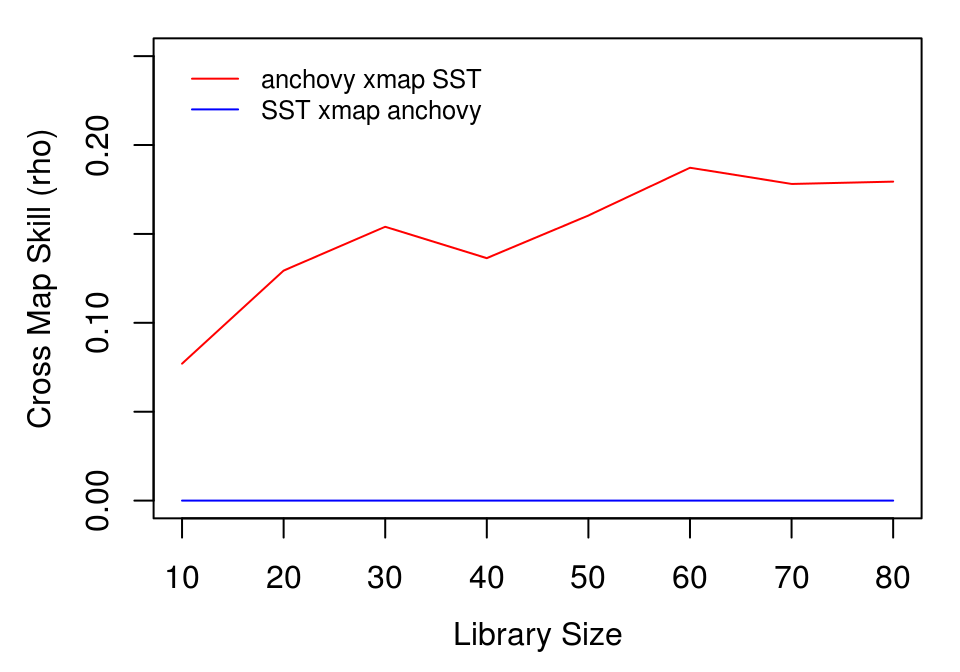
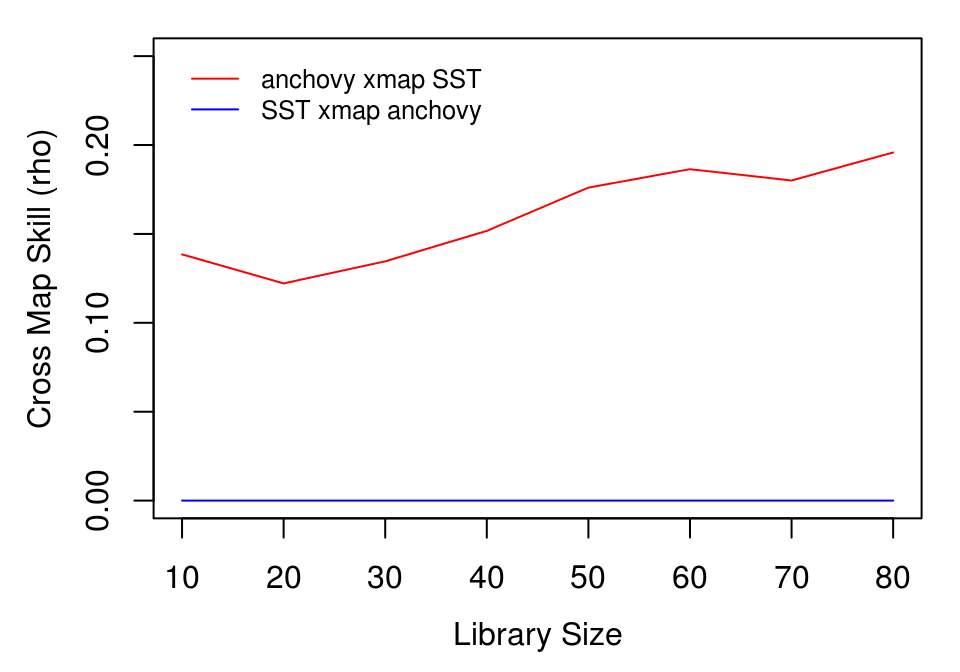
Deploy ha0ye/rEDM to github.com/ha0ye/rEDM.git:gh-pages

diff --git a/articles/rEDM.html b/articles/rEDM.html
@@ -89,7 +89,7 @@
                         <h4 class="author">Ethan Deyle</h4>
                         <h4 class="author">George Sugihara</h4>
             
-            <h4 class="date">2019-06-17</h4>
+            <h4 class="date">2019-07-22</h4>
       
       <small class="dont-index">Source: <a href="https://github.com/ha0ye/rEDM/blob/master/vignettes/rEDM.Rmd"><code>vignettes/rEDM.Rmd</code></a></small>
       <div class="hidden name"><code>rEDM.Rmd</code></div>
@@ -487,9 +487,9 @@
 ##  $ target_column: Factor w/ 1 level "np_sst": 1 1 1 1 1 1 1 1 1 1 ...
 ##  $ lib_size     : num  10 10 10 10 10 10 10 10 10 10 ...
 ##  $ num_pred     : num  76 76 76 76 76 76 76 76 76 76 ...
-##  $ rho          : num  0.0585 0.2334 0.2369 -0.0941 0.2689 ...
-##  $ mae          : num  1.083 0.939 0.926 0.999 0.904 ...
-##  $ rmse         : num  1.35 1.18 1.11 1.22 1.12 ...</code></pre>
+##  $ rho          : num  -0.0444 -0.1813 0.2816 0.1352 0.09 ...
+##  $ mae          : num  0.965 1.051 0.88 0.846 0.938 ...
+##  $ rmse         : num  1.23 1.3 1.1 1.08 1.18 ...</code></pre>
 <p>The output is a data.frame with statistics for each model run (in this case, 100 models at each of 8 library sizes). To interpret the results, we aggregate the cross map performance at each library size using the <code><a href="../reference/ccm_means.html">ccm_means()</a></code> function, which computes a mean value at each unique <code>lib_size</code>. Because average cross map skill less than 0 means there is no prediction skill, (predictions should not be anticorrelated with observations), we set negative values to 0 when plotting.</p>
 <div class="sourceCode" id="cb35"><pre class="sourceCode r"><code class="sourceCode r"><a class="sourceLine" id="cb35-1" data-line-number="1">a_xmap_t_means &lt;-<span class="st"> </span><span class="kw"><a href="../reference/ccm_means.html">ccm_means</a></span>(anchovy_xmap_sst)</a>
 <a class="sourceLine" id="cb35-2" data-line-number="2">t_xmap_a_means &lt;-<span class="st"> </span><span class="kw"><a href="../reference/ccm_means.html">ccm_means</a></span>(sst_xmap_anchovy)</a>
@@ -539,8 +539,8 @@
 <div class="sourceCode" id="cb41"><pre class="sourceCode r"><code class="sourceCode r"><a class="sourceLine" id="cb41-1" data-line-number="1">output<span class="op">$</span>direction &lt;-<span class="st"> </span><span class="kw"><a href="https://www.rdocumentation.org/packages/base/topics/paste">paste</a></span>(output<span class="op">$</span>lib_column, <span class="st">"xmap to</span><span class="ch">\n</span><span class="st">"</span>, output<span class="op">$</span>target_column)</a>
 <a class="sourceLine" id="cb41-2" data-line-number="2"></a>
 <a class="sourceLine" id="cb41-3" data-line-number="3"><span class="kw"><a href="https://www.rdocumentation.org/packages/base/topics/library">library</a></span>(ggplot2)</a>
-<a class="sourceLine" id="cb41-4" data-line-number="4">time_delay_ccm_fig &lt;-<span class="st"> </span><span class="kw"><a href="https://www.rdocumentation.org/packages/ggplot2/topics/ggplot">ggplot</a></span>(output, <span class="kw"><a href="https://www.rdocumentation.org/packages/ggplot2/topics/aes">aes</a></span>(<span class="dt">x =</span> tp, <span class="dt">y =</span> rho, <span class="dt">color =</span> direction)) <span class="op">+</span><span class="st"> </span></a>
-<a class="sourceLine" id="cb41-5" data-line-number="5"><span class="st">    </span><span class="kw"><a href="https://www.rdocumentation.org/packages/ggplot2/topics/geom_path">geom_line</a></span>() <span class="op">+</span><span class="st"> </span><span class="kw"><a href="https://www.rdocumentation.org/packages/ggplot2/topics/ggtheme">theme_bw</a></span>()</a></code></pre></div>
+<a class="sourceLine" id="cb41-4" data-line-number="4">time_delay_ccm_fig &lt;-<span class="st"> </span><span class="kw"><a href="https://ggplot2.tidyverse.org/reference/ggplot.html">ggplot</a></span>(output, <span class="kw"><a href="https://ggplot2.tidyverse.org/reference/aes.html">aes</a></span>(<span class="dt">x =</span> tp, <span class="dt">y =</span> rho, <span class="dt">color =</span> direction)) <span class="op">+</span><span class="st"> </span></a>
+<a class="sourceLine" id="cb41-5" data-line-number="5"><span class="st">    </span><span class="kw"><a href="https://ggplot2.tidyverse.org/reference/geom_path.html">geom_line</a></span>() <span class="op">+</span><span class="st"> </span><span class="kw"><a href="https://ggplot2.tidyverse.org/reference/ggtheme.html">theme_bw</a></span>()</a></code></pre></div>
 <div class="sourceCode" id="cb42"><pre class="sourceCode r"><code class="sourceCode r"><a class="sourceLine" id="cb42-1" data-line-number="1"><span class="kw"><a href="https://www.rdocumentation.org/packages/base/topics/print">print</a></span>(time_delay_ccm_fig)</a></code></pre></div>
 <p><img src="rEDM_files/figure-html/unnamed-chunk-17-1.png" width="480"></p>
 <p>As expected for this simple predator-prey system, we see evidence for causation in both directions (cross map skill, <code>rho</code>, peaks for negative <code>tp</code>). Using cross map skill as a proxy for interaction strength (under the assumption that all else is equal, which is reasonable for this laboratory experiment), it looks like the causal interaction is equally strong in both directions. We further note that the estimated time delay for the effect of predators (<em>Didinium</em>) on prey (<em>Paramecium</em>) is fast (<code>tp = -1</code> for “paramecium xmap to didinium”) compared to the effect of prey on predators (<code>tp = -4</code> for “didinium xmap to paramecium”). This is consistent with the ecological interpretation that changes in predator abundance affect prey abundance quickly, while there is a lag in the response of predator abundance to changes in prey abundance.</p>

diff --git a/articles/rEDM-coprediction.html b/articles/rEDM-coprediction.html
@@ -86,7 +86,7 @@
       <h1>co-prediction: using rEDM to quantify dynamic similarity</h1>
                         <h4 class="author">Hao Ye</h4>
             
-            <h4 class="date">2019-06-17</h4>
+            <h4 class="date">2019-07-22</h4>
       
       <small class="dont-index">Source: <a href="https://github.com/ha0ye/rEDM/blob/master/vignettes/rEDM-coprediction.Rmd"><code>vignettes/rEDM-coprediction.Rmd</code></a></small>
       <div class="hidden name"><code>rEDM-coprediction.Rmd</code></div>
@@ -143,9 +143,9 @@
 <a class="sourceLine" id="cb5-10" data-line-number="10">)</a></code></pre></div>
 <p>Plot the output</p>
 <div class="sourceCode" id="cb6"><pre class="sourceCode r"><code class="sourceCode r"><a class="sourceLine" id="cb6-1" data-line-number="1"><span class="kw"><a href="https://www.rdocumentation.org/packages/base/topics/library">library</a></span>(ggplot2)</a>
-<a class="sourceLine" id="cb6-2" data-line-number="2"><span class="kw"><a href="https://www.rdocumentation.org/packages/ggplot2/topics/ggplot">ggplot</a></span>(to_plot, <span class="kw"><a href="https://www.rdocumentation.org/packages/ggplot2/topics/aes">aes</a></span>(<span class="dt">x =</span> label, <span class="dt">y =</span> rho)) <span class="op">+</span><span class="st"> </span></a>
-<a class="sourceLine" id="cb6-3" data-line-number="3"><span class="st">    </span><span class="kw"><a href="https://www.rdocumentation.org/packages/ggplot2/topics/geom_bar">geom_col</a></span>() <span class="op">+</span><span class="st"> </span><span class="kw"><a href="https://www.rdocumentation.org/packages/ggplot2/topics/ggtheme">theme_bw</a></span>() <span class="op">+</span><span class="st"> </span></a>
-<a class="sourceLine" id="cb6-4" data-line-number="4"><span class="st">    </span><span class="kw"><a href="https://www.rdocumentation.org/packages/ggplot2/topics/theme">theme</a></span>(<span class="dt">axis.text.x =</span> <span class="kw"><a href="https://www.rdocumentation.org/packages/ggplot2/topics/element">element_text</a></span>(<span class="dt">angle =</span> <span class="dv">90</span>, <span class="dt">hjust =</span> <span class="dv">1</span>))</a></code></pre></div>
+<a class="sourceLine" id="cb6-2" data-line-number="2"><span class="kw"><a href="https://ggplot2.tidyverse.org/reference/ggplot.html">ggplot</a></span>(to_plot, <span class="kw"><a href="https://ggplot2.tidyverse.org/reference/aes.html">aes</a></span>(<span class="dt">x =</span> label, <span class="dt">y =</span> rho)) <span class="op">+</span><span class="st"> </span></a>
+<a class="sourceLine" id="cb6-3" data-line-number="3"><span class="st">    </span><span class="kw"><a href="https://ggplot2.tidyverse.org/reference/geom_bar.html">geom_col</a></span>() <span class="op">+</span><span class="st"> </span><span class="kw"><a href="https://ggplot2.tidyverse.org/reference/ggtheme.html">theme_bw</a></span>() <span class="op">+</span><span class="st"> </span></a>
+<a class="sourceLine" id="cb6-4" data-line-number="4"><span class="st">    </span><span class="kw"><a href="https://ggplot2.tidyverse.org/reference/theme.html">theme</a></span>(<span class="dt">axis.text.x =</span> <span class="kw"><a href="https://ggplot2.tidyverse.org/reference/element.html">element_text</a></span>(<span class="dt">angle =</span> <span class="dv">90</span>, <span class="dt">hjust =</span> <span class="dv">1</span>))</a></code></pre></div>
 <p><img src="rEDM-coprediction_files/figure-html/unnamed-chunk-6-1.png" width="700"></p>
 <p>Here, we see that the predictions of <span class="math inline">\(x\)</span> are worse when we try to use the inferred dynamics from <span class="math inline">\(y\)</span> (i.e. <span class="math inline">\(G\)</span>) to make forecasts. In contrast, the predictions of <span class="math inline">\(y\)</span> have roughly the same forecast skill. Since the time series come from a model simulation where <span class="math inline">\(x\)</span> and <span class="math inline">\(y\)</span> have different coefficients, we can infer their dynamical maps are <em>actually</em> different.</p>
 <p>Thus, our results seem to show that the reconstructed map of <span class="math inline">\(G\)</span> (inferred from the 100-point time-series of <span class="math inline">\(y\)</span>) is a subset of <span class="math inline">\(F\)</span> (inferred from the 100-point time series of <span class="math inline">\(x\)</span>). One possibility is that the dynamics of <span class="math inline">\(y\)</span> are complex, such that more data is needed to recover the true dynamics (i.e. the true <span class="math inline">\(G\)</span> is more complex than our inferred <span class="math inline">\(\hat{G}\)</span> from the data) – thus, with only 100 data points the inferred <span class="math inline">\(\hat{F}\)</span> is equally good at predicting <span class="math inline">\(y\)</span>.</p>

diff --git a/articles/rEDM-time-delay-ccm.html b/articles/rEDM-time-delay-ccm.html
@@ -86,7 +86,7 @@
       <h1>Using rEDM to quantify time delays in causation</h1>
                         <h4 class="author">Hao Ye</h4>
             
-            <h4 class="date">2019-06-17</h4>
+            <h4 class="date">2019-07-22</h4>
       
       <small class="dont-index">Source: <a href="https://github.com/ha0ye/rEDM/blob/master/vignettes/rEDM-time-delay-ccm.Rmd"><code>vignettes/rEDM-time-delay-ccm.Rmd</code></a></small>
       <div class="hidden name"><code>rEDM-time-delay-ccm.Rmd</code></div>
@@ -141,8 +141,8 @@
 <div class="sourceCode" id="cb4"><pre class="sourceCode r"><code class="sourceCode r"><a class="sourceLine" id="cb4-1" data-line-number="1">output<span class="op">$</span>direction &lt;-<span class="st"> </span><span class="kw"><a href="https://www.rdocumentation.org/packages/base/topics/paste">paste</a></span>(output<span class="op">$</span>lib_column, <span class="st">"xmap to"</span>, output<span class="op">$</span>target_column)</a></code></pre></div>
 <p>Plot the results (cross map skill vs. tp):</p>
 <div class="sourceCode" id="cb5"><pre class="sourceCode r"><code class="sourceCode r"><a class="sourceLine" id="cb5-1" data-line-number="1"><span class="kw"><a href="https://www.rdocumentation.org/packages/base/topics/library">library</a></span>(ggplot2)</a>
-<a class="sourceLine" id="cb5-2" data-line-number="2"><span class="kw"><a href="https://www.rdocumentation.org/packages/ggplot2/topics/ggplot">ggplot</a></span>(output, <span class="kw"><a href="https://www.rdocumentation.org/packages/ggplot2/topics/aes">aes</a></span>(<span class="dt">x =</span> tp, <span class="dt">y =</span> rho, <span class="dt">color =</span> direction)) <span class="op">+</span><span class="st"> </span></a>
-<a class="sourceLine" id="cb5-3" data-line-number="3"><span class="st">    </span><span class="kw"><a href="https://www.rdocumentation.org/packages/ggplot2/topics/geom_path">geom_line</a></span>() <span class="op">+</span><span class="st"> </span><span class="kw"><a href="https://www.rdocumentation.org/packages/ggplot2/topics/ggtheme">theme_bw</a></span>()</a></code></pre></div>
+<a class="sourceLine" id="cb5-2" data-line-number="2"><span class="kw"><a href="https://ggplot2.tidyverse.org/reference/ggplot.html">ggplot</a></span>(output, <span class="kw"><a href="https://ggplot2.tidyverse.org/reference/aes.html">aes</a></span>(<span class="dt">x =</span> tp, <span class="dt">y =</span> rho, <span class="dt">color =</span> direction)) <span class="op">+</span><span class="st"> </span></a>
+<a class="sourceLine" id="cb5-3" data-line-number="3"><span class="st">    </span><span class="kw"><a href="https://ggplot2.tidyverse.org/reference/geom_path.html">geom_line</a></span>() <span class="op">+</span><span class="st"> </span><span class="kw"><a href="https://ggplot2.tidyverse.org/reference/ggtheme.html">theme_bw</a></span>()</a></code></pre></div>
 <p><img src="rEDM-time-delay-ccm_files/figure-html/unnamed-chunk-5-1.png" width="576"></p>
 <div id="causal-direction" class="section level3">
 <h3 class="hasAnchor">
